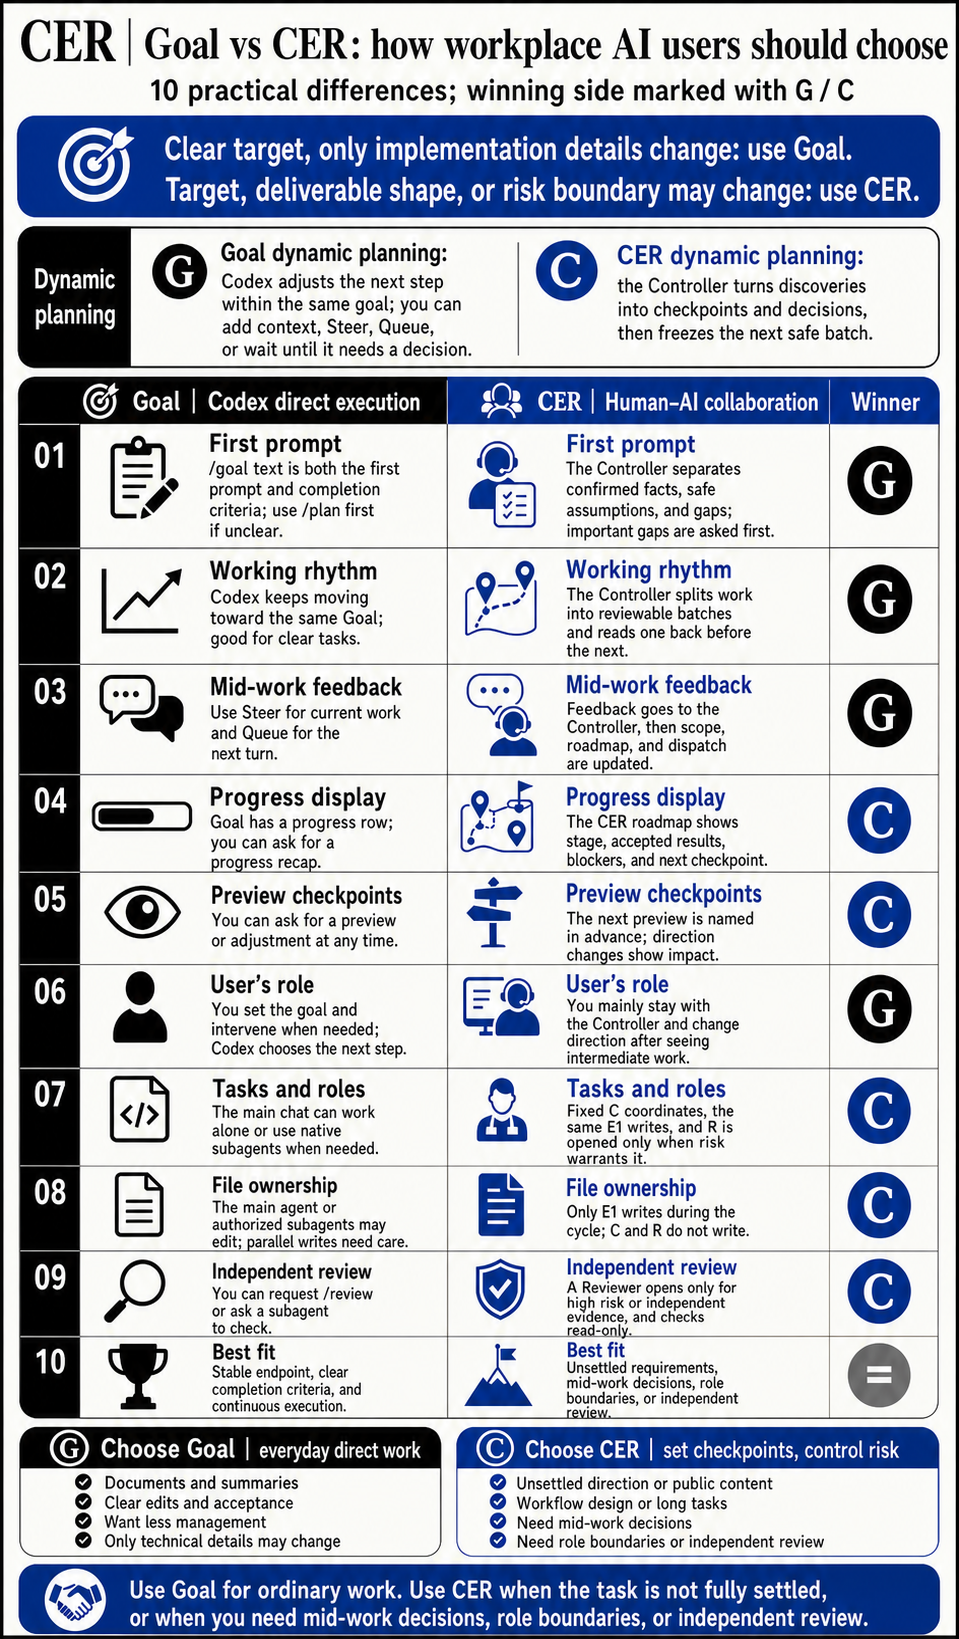
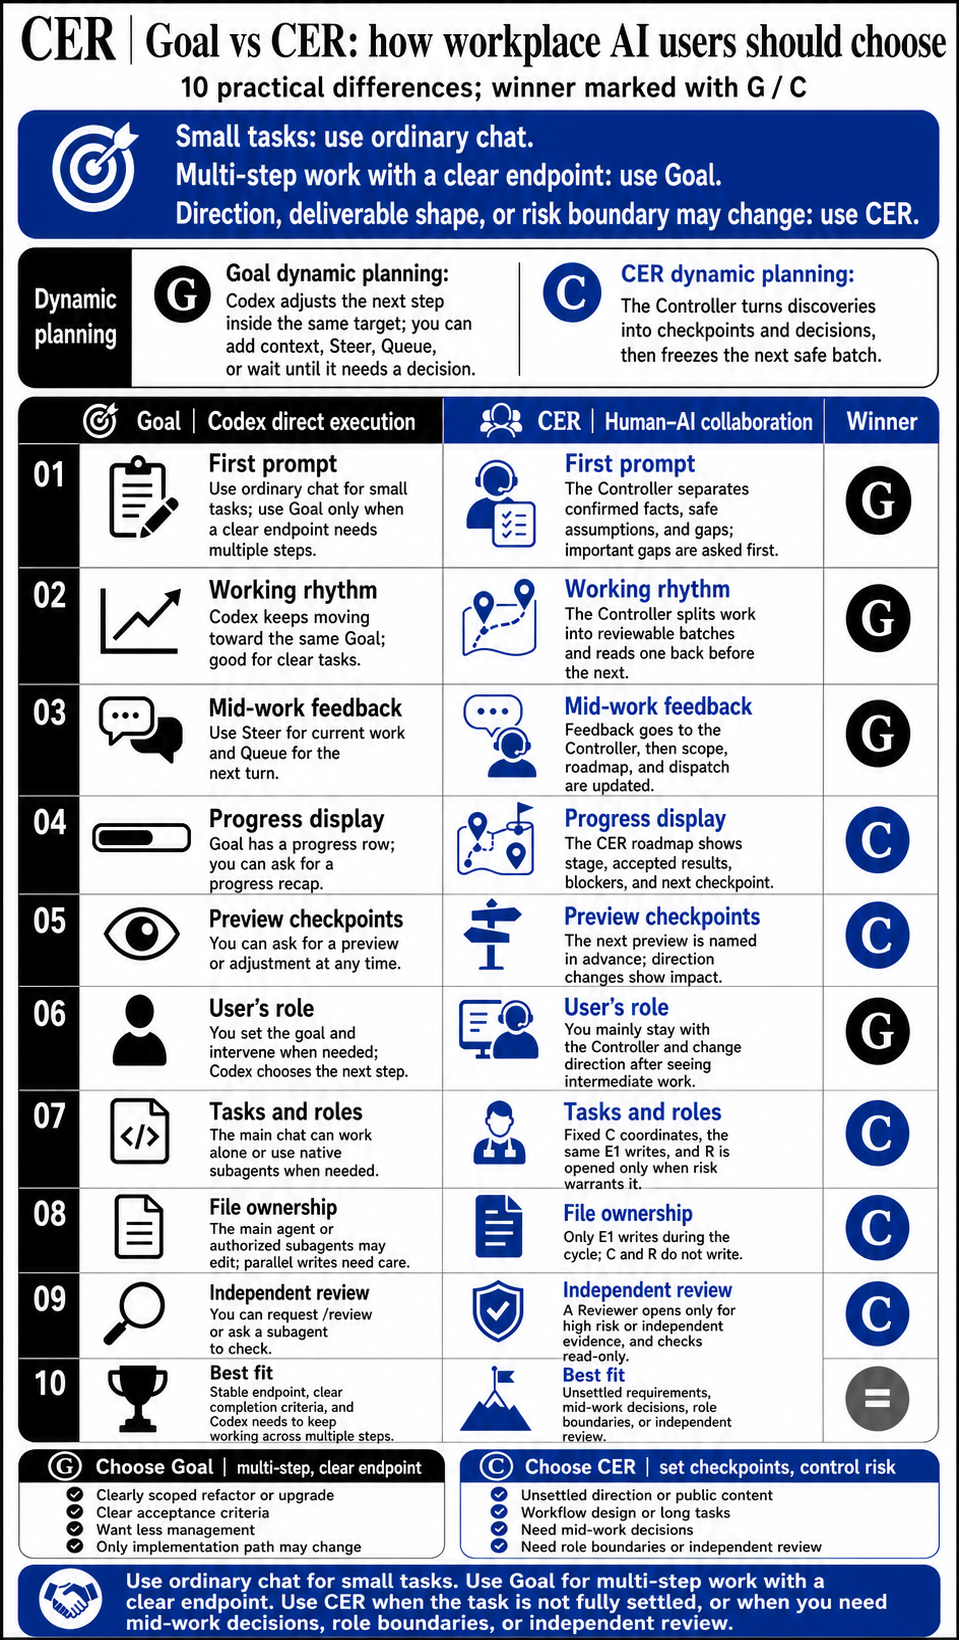
docs: clarify ordinary chat versus Goal and CER

diff --git a/README.en.md b/README.en.md
@@ -4,7 +4,7 @@
 
 CER = Controller, Executor, Reviewer.
 
-CER is a workflow skill for Codex. It does not replace Goal. Use Goal for ordinary work. Use CER when the task is not fully settled, or when you need mid-work decisions, role boundaries, or independent review.
+CER is a workflow skill for Codex. It does not replace ordinary chat, and it does not replace Goal. Use an ordinary chat for small tasks. Use Goal when Codex needs to keep working across multiple steps and the endpoint is clear. Use CER when the task is not fully settled, or when you need mid-work decisions, role boundaries, or independent review.
 
 In plain language: when you discover halfway through that the direction, constraints, or risk has changed, CER brings that change back to you before assigning the next batch of work. It is for tasks where the human and the AI need to make decisions together. It is not worth using for every small task.
 
@@ -12,9 +12,15 @@ In plain language: when you discover halfway through that the direction, constra
 
 ## Choose First
 
+Use an ordinary chat when:
+
+- You need a one-off summary, translation, formatting pass, or small edit.
+- You only need a short result, not long-running Codex work.
+
 Use Goal when:
 
-- You are summarizing, organizing documents, making a clear edit, or working toward clear acceptance criteria.
+- The task has several steps, but the endpoint and completion criteria are clear.
+- For example, a clearly scoped refactor, upgrade, or test repair.
 - You know the endpoint, even if implementation details may change.
 - You want Codex to keep moving with less management from you.
 
@@ -26,8 +32,9 @@ Use CER when:
 
 Examples:
 
-- "Turn these meeting notes into a one-page summary": use Goal.
-- "Fix the login bug and make the tests pass": use Goal.
+- "Turn these meeting notes into a one-page summary": use an ordinary chat; no Goal or CER needed.
+- "Rewrite one paragraph, or fix a small issue that is already located": use an ordinary chat.
+- "Complete a clearly scoped upgrade, preserve existing behavior, and make the tests pass": use Goal.
 - "Redesign the onboarding flow, and show me checkpoints before the direction is locked": use CER.
 - "Rewrite the README so non-CER users understand when to use CER instead of Goal": use CER.
 
@@ -48,7 +55,7 @@ The difference is the working style:
 
 | # | Point of comparison | Goal | CER | How most users should read it |
 |---:|---|---|---|---|
-| 1 | First prompt | The `/goal` text becomes both the first prompt and the completion criteria. If the direction is still unclear, you can use `/plan` first. | The Controller separates confirmed facts, safe assumptions, and critical gaps. It asks before delegating when a gap would materially change the result. | Goal is more direct for everyday work. |
+| 1 | First prompt | The `/goal` text becomes both the first prompt and the completion criteria. If the direction is still unclear, you can use `/plan` first. | The Controller separates confirmed facts, safe assumptions, and critical gaps. It asks before delegating when a gap would materially change the result. | Use ordinary chat for small tasks; use Goal only when the clear endpoint needs multiple steps. |
 | 2 | Working rhythm | Codex keeps moving toward the same Goal, which suits long tasks that need less intervention. | The Controller divides the work into reviewable batches and decides the next batch after reading back the current one. | Use Goal for a clear target; use CER when batches need checkpoints. |
 | 3 | Feedback during the work | In the same chat, `Steer` can change the current run and `Queue` can hold a message for the next run. You can also pause or edit the Goal. | You give feedback to the Controller. It identifies the affected scope, updates the roadmap, and sends a new batch to the same Executor. | Goal handles normal added context; CER is clearer when feedback changes direction. |
 | 4 | Progress display | The desktop app shows a Goal progress row, and you can ask Codex for a progress recap. | Long or multi-stage work uses a CER roadmap showing the current stage, accepted results, blockers, and the next user checkpoint. | CER is clearer when checkpoints matter. |
@@ -57,7 +64,7 @@ The difference is the working style:
 | 7 | Task and agent structure | The main chat can work alone or use native, sidebar-visible subagents. Roles and handoffs depend on the task. | Each cycle has a fixed C for coordination and the same E1 for file changes. A fresh, read-only R is created only when risk warrants it. | Use CER when role boundaries and handoff clarity matter. |
 | 8 | File ownership | The main agent or a subagent used for the task may make changes. Parallel work must avoid writing to the same source. | Only E1 writes files during a cycle. C and R stay read-only, avoiding concurrent changes from different roles. | Use CER when you want to avoid multiple roles writing at once. |
 | 9 | Independent review | You can request a review, such as `/review`, or ask a subagent to check the work, but it is not a fixed part of every Goal. | A fresh R is used only for important, high-risk work or when independent evidence is needed. C groups the findings and returns them to the same E1. | Use CER for risky or public deliverables. |
-| 10 | Best fit | The endpoint is stable, the completion criteria can be stated clearly, and you want Codex to carry the work through continuously. | The task is not fully settled, or it needs mid-work decisions, role boundaries, or independent review. | Neither replaces the other; choose by task. |
+| 10 | Best fit | The endpoint is stable, the completion criteria can be stated clearly, and Codex needs to keep working across multiple steps. | The task is not fully settled, or it needs mid-work decisions, role boundaries, or independent review. | Neither replaces the other; choose by task. |
 
 The Goal details above follow OpenAI's [Long-running work](https://learn.chatgpt.com/docs/long-running-work), [Prompting](https://learn.chatgpt.com/docs/prompting), and [Subagents](https://learn.chatgpt.com/docs/agent-configuration/subagents) documentation. The CER details follow this repo's [Controller Preflight](skills/cer-workflow-en/references/core-runtime.md#controller-preflight), [Execution Loop](skills/cer-workflow-en/references/core-runtime.md#execution-loop), and [inline roadmap](skills/cer-workflow-en/references/roadmap.md#two-different-surfaces).
 
